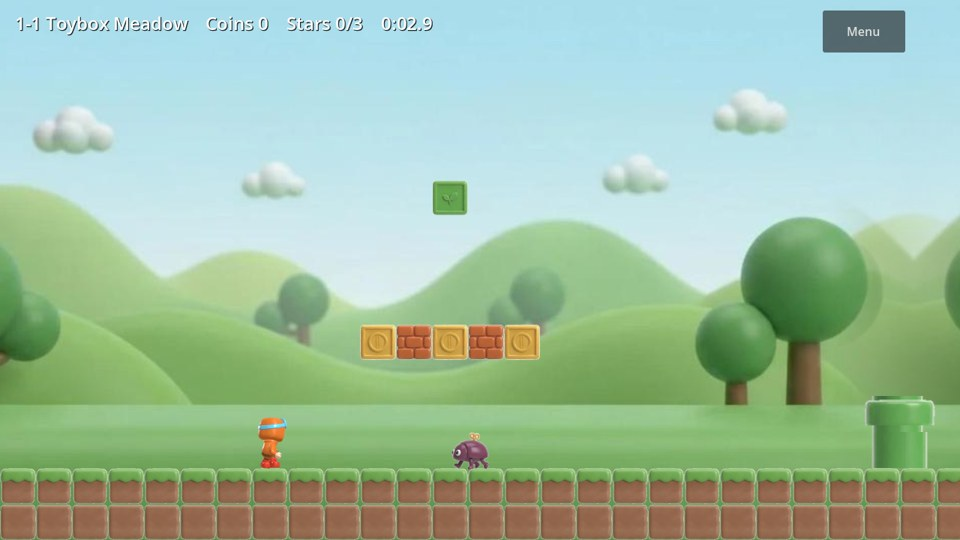
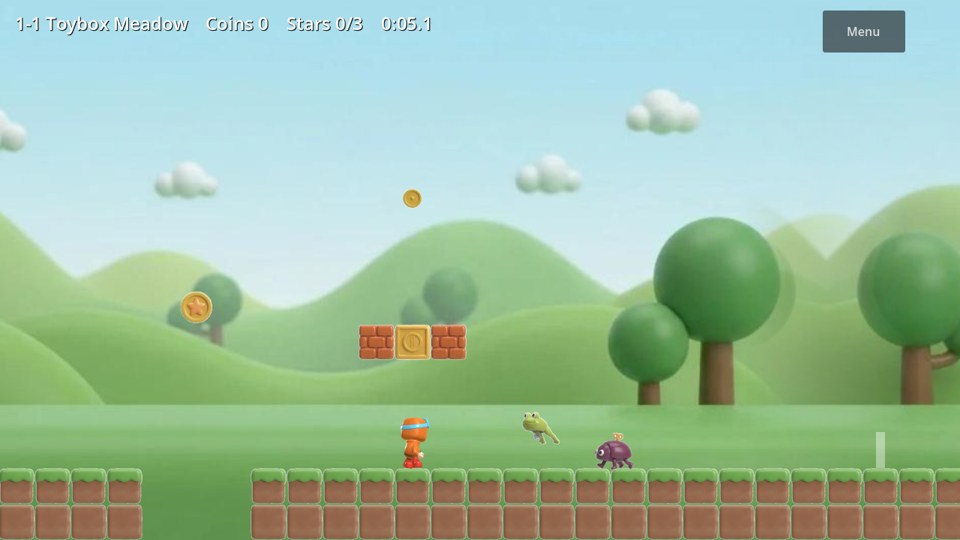
Game Shelf: Brickhop 0.4.0
Claude-Session: https://claude.ai/code/session_0117TTY9Wb37nvSoWqfkNXh3

diff --git a/index.html b/index.html
@@ -132,11 +132,11 @@ h2 a[href="lo-fi-league/"]{font-size:.9em;word-spacing:.35em}h2 a[href="pixel-ho
 </article>
 
 <article class="card" data-repo="brickhop">
-<a class="shot" href="brickhop/"><img src="images/brickhop.jpg?v=0.3.0" alt="Brickhop 1-1: the goggles hero and a wind-up beetle on toy grass blocks under coin blocks in a toy meadow" width="960" height="540" loading="lazy"></a>
+<a class="shot" href="brickhop/"><img src="images/brickhop.jpg?v=0.4.0" alt="Brickhop 1-1: the goggles hero by a gap while a spring frog hops and a beetle walks" width="960" height="540" loading="lazy"></a>
 <div class="body">
 <div class="top"><h2><a href="brickhop/">Brickhop</a></h2><span class="tag">Run, hop and find every secret</span></div>
-<p class="desc">A side-scrolling platformer in a toy box world. Run, hop the gaps, bump glossy blocks for coins and stomp wind-up beetles. A hit or a fall costs a few coins, never the level. Find the hidden block, the secret pipe and three star coins. Breezy, Standard or Classic. Five save slots. Plays with touch, a keyboard or an Xbox controller, held upright or sideways.</p>
-<p class="meta">Browser and Android<span class="ver"> · Version 0.3.0</span> <span class="upd">· Updated <time datetime="2026-11-19T22:00-06:00">Nov 19, 2026, 10:00 PM CT</time></span></p>
+<p class="desc">A side-scrolling platformer in a toy box world. Run, hop the gaps, bump glossy blocks for coins and stomp wind-up beetles. Curl pill bugs into balls and kick them, and dodge hopping spring frogs. A hit or a fall costs a few coins, never the level. Find the hidden block, the secret pipe and three star coins. Breezy, Standard or Classic. Five save slots. Plays with touch, a keyboard or an Xbox controller, held upright or sideways.</p>
+<p class="meta">Browser and Android<span class="ver"> · Version 0.4.0</span> <span class="upd">· Updated <time datetime="2026-11-19T22:20-06:00">Nov 19, 2026, 10:20 PM CT</time></span></p>
 <div class="actions"><a class="btn" href="brickhop/">Open game page</a></div>
 </div>
 </article>
